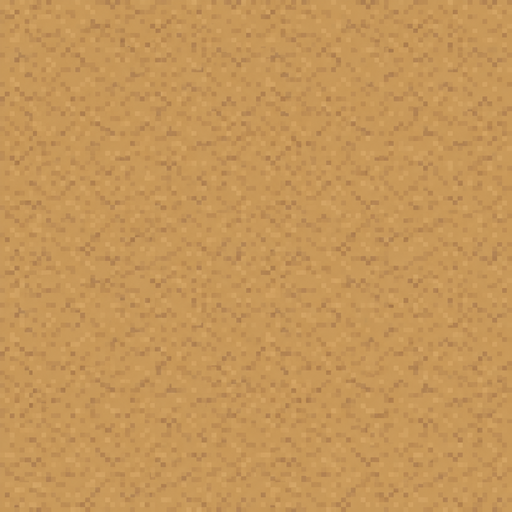
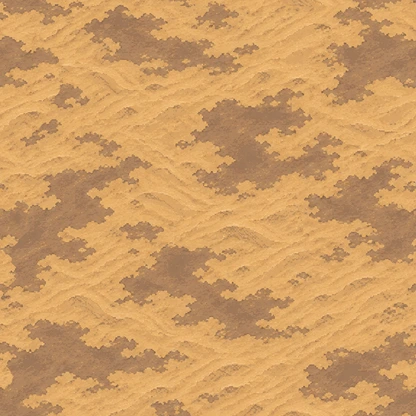
흑풍채 목책에 정문을 내고, 담 밖 가장자리엔 출구를 내지 않는다 / 쿼터뷰 그림 두 번째 묶음
길 막힘
- 흑풍채: 아래 목책이 '강호로' 출구를 통째로 막고 있었다. 가운데를 터서 깃발 단 정문을 낸다
- 마당 길은 목책 안과 두 문 길에만 깔고, 담 밖은 맨땅으로 둔다
- 가장자리 출구는 걸어서 닿는 큰 땅과 이어진 곳에만 낸다(담 뒤에 출구를 만들지 않는다)
- 넓힌 지도에서 줄지어 놓은 담과 목책 사이에 틈이 생기던 것을 메운다
- 넓힌 지도에서 어긋나던 날것 충돌 상자(청하진 나루, 청풍골, 세가 거리)를 맞춘다
- tools/reach_test.cjs: 모든 지도에서 출구와 문이 걸어서 닿는지 본다

쿼터뷰 그림
- 땅 텍스처 9장: 되풀이 길이를 찾아 가장 덜 티 나는 금으로 꿰매 이음매를 없앤다. 들판은 풀밭 빛깔을 돌려 만든다
- 초가, 긴 초가, 기와집, 주막, 대장간, 약방, 잡화점, 헛간, 정자, 성황당, 나루, 나루 집
- 청하진 나루를 나루 그림으로, 길가 주막을 주막 그림으로
- 방 바닥은 새 마루 그림(이미 비스듬)을 그대로 깐다

Claude-Session: https://claude.ai/code/session_01UsE88WbmcPGyB1TXiMVMP7

diff --git a/js/maps.js b/js/maps.js
@@ -2,7 +2,7 @@
 import { G, TS, rint, pick, IMG } from './core.js';
 import { FURN, HOUSES } from './items.js';
 import { STAMPS, drawStamp, paintGround, paintRoom, curbs, mottle } from './tiles.js';
-import { meta, corners, hitsBox, inside } from './iso.js';
+import { meta, corners, hitsBox, inside, drawIso } from './iso.js';
 import { buildIsoRoom } from './isoroom.js';
 
 // 쿼터뷰 미리보기에서는 바깥 지도를 k배 넓게 편다. 쿼터뷰 집이 크기 때문이다
@@ -24,12 +24,13 @@ class MapDef {
   put(name, tx, ty, o = {}) {
     const s = STAMPS[name], px = tx * this.k * TS + (o.dx || 0), py = ty * this.k * TS + (o.dy || 0);
     if (!s) { console.warn('소품 없음', name); return this; }
-    this.stamps.push({ name, x: px, y: py, base: py + s[4] - (o.lift || 0), flat: o.flat });
+    this.stamps.push({ name, x: px, y: py, base: py + s[4] - (o.lift || 0), flat: o.flat, ...(o.isoAs ? { isoAs: o.isoAs } : {}) });
     if (s.length > 5 && !o.nosolid) this.solids.push({ x: px + s[5], y: py + s[6], w: s[7], h: s[8] });
     return this;
   }
-  row(name, tx, ty, n, step = 1, o = {}) { for (let i = 0; i < n; i++) this.put(name, tx + i * step, ty, o); return this; }
-  col(name, tx, ty, n, step = 1, o = {}) { for (let i = 0; i < n; i++) this.put(name, tx, ty + i * step, o); return this; }
+  // 줄지어 놓기. 넓힌 지도에서 한 칸짜리를 촘촘히 잇던 줄(담, 목책)은 조각을 더 넣어 틈이 생기지 않게 한다
+  row(name, tx, ty, n, step = 1, o = {}) { const k = step === 1 ? this.k : 1, N = Math.ceil(n * k - (k - 1)); for (let i = 0; i < N; i++) this.put(name, tx + i * step / k, ty, o); return this; }
+  col(name, tx, ty, n, step = 1, o = {}) { const k = step === 1 ? this.k : 1, N = Math.ceil(n * k - (k - 1)); for (let i = 0; i < N; i++) this.put(name, tx, ty + i * step / k, o); return this; }
   solid(tx, ty, w, h) { const k = this.k; this.solids.push({ x: tx * k * TS, y: ty * k * TS, w: w * TS, h: h * TS }); return this; }
   // 건물 입구: 스탬프 아래쪽 가운데에 포탈을 만든다
   house(name, tx, ty, to, ex, ey, dir = 1, o = {}) {
@@ -44,6 +45,7 @@ class MapDef {
   paveDiamond(cx, cy, hw, kind = 'stone') { const k = this.k; cx *= k; cy *= k; hw *= k; (this.pave = this.pave || []).push({ kind, poly: [[cx, cy - hw / 2], [cx + hw, cy], [cx, cy + hw / 2], [cx - hw, cy]].map(([a, b]) => [a * TS, b * TS]) }); return this; }
   // 쿼터뷰 소품: (fx, fy)는 바닥 마름모의 앞 모서리 자리(칸). flip이면 좌우를 뒤집어 입구가 오른쪽 앞면에 온다
   iso(name, fx, fy, o = {}) { return this.isoAt(name, fx * this.k, fy * this.k, o); }
+  isoGround(name, X, Y, o = {}) { const q = meta(name, o.flip); if (!q) return this; (this.ground = this.ground || []).push({ name, x: Math.round(X - q.ax), y: Math.round(Y - q.ay), w: q.w, h: q.h, flip: !!o.flip, iso: corners(X, Y, q.fw, q.fh, q.ls, q.rs) }); return this; }
   isoAt(name, fx, fy, o = {}) {
     const q = meta(name, o.flip); if (!q) { console.warn('쿼터뷰 소품 없음', name); return this; }
     const X = fx * TS, Y = fy * TS, c = corners(X, Y, q.fw, q.fh, q.ls, q.rs); this.hasIso = true;
@@ -85,12 +87,13 @@ class MapDef {
       G.world.paintArea(x, 0, 0, this.w, this.h, this.g, Bm, this.w, this.h);
     } else paintGround(x, this.g, this.biome);
     if (this.pave) for (const p of this.pave) paintPave(x, p);
+    for (const s of this.ground || []) drawIso(x, s);
     for (const s of this.stamps) if (s.flat) drawStamp(x, s.name, s.x, s.y);
     this.canvas = c; this.objs = this.stamps.filter(s => !s.flat);
     if (this.room && isoMode() && this.id !== 'myhouse') { // 쿼터뷰 미리보기: 바닥만 칠해 눕히고 뒷벽 두 면을 세운다
       const f = document.createElement('canvas'); f.width = c.width; f.height = c.height; const fx = f.getContext('2d'); fx.imageSmoothingEnabled = false;
-      paintRoom(fx, this.w, this.h, this.roomStyle || 0, { carpet: this.carpet, floorOnly: true }); for (const s of this.stamps) if (s.flat) drawStamp(fx, s.name, s.x, s.y);
-      buildIsoRoom(this, f);
+      const flat = !this.roomStyle && IMG['ground/wood']; paintRoom(fx, this.w, this.h, this.roomStyle || 0, { carpet: this.carpet, floorOnly: true, noFloor: flat }); for (const s of this.stamps) if (s.flat) drawStamp(fx, s.name, s.x, s.y);
+      buildIsoRoom(this, f, flat ? IMG['ground/wood'] : null);
     }
     if (this.room) { this.solids.push({ x: 0, y: 0, w: this.w * TS, h: TS + 4 }, { x: 0, y: 0, w: 10, h: this.h * TS }, { x: this.w * TS - 10, y: 0, w: 10, h: this.h * TS }, { x: 0, y: this.h * TS - 10, w: this.w * TS, h: 10 }); }
     return this;
@@ -155,13 +158,20 @@ function isoDress(m) {
 }
 // 문 자리 D가 문 난 면 가운데(그림에 문 자리가 적혀 있으면 그 자리)에 오게 앞 모서리를 잡는다. 문은 왼쪽 앞면, 뒤집으면 오른쪽 앞면에 있다
 const doorF = (q, flip, D) => { const t = q.door ?? .5; return flip ? [D[0] - q.fh * t * 16, D[1] + q.fh * t * 16 * (q.rs ?? .5)] : [D[0] + q.fw * t * 16, D[1] + q.fw * t * 16 * (q.ls ?? .5)]; };
+function isoDock(m, x, y, w, h) {
+  const k = m.k, q = meta('dock'); for (let Y = Math.floor(y * k); Y < Math.ceil((y + h) * k); Y++) for (let X = Math.floor(x * k); X < Math.ceil((x + w) * k); X++) if (m.g[Y]?.[X] === 4) m.g[Y][X] = Y < (y + 1) * k ? 1 : 2;
+  const Kx = (x + w / 2) * k * TS, Ky = (y + 1) * k * TS - 6, ls = q.ls ?? .5, rs = q.rs ?? .5, F = [Kx + 16 * (q.fw - q.fh), Ky + 16 * (q.fw * ls + q.fh * rs)];
+  m.isoGround('dock', F[0], F[1]); const c = m.ground[m.ground.length - 1].iso;
+  for (let Y = Math.floor(c.K[1] / TS) - 1; Y <= Math.ceil(c.F[1] / TS); Y++) for (let X = Math.floor(c.L[0] / TS); X <= Math.ceil(c.R[0] / TS); X++) if (m.g[Y]?.[X] === 2 && inside(c, X * TS + 8, Y * TS + 8, -3)) m.g[Y][X] = 4;
+  m.dockDeck = true;
+}
 export function isoRetrofit(m, o = {}) {
   if (m._isoDone || m.room || (m.live && !o.live)) return; m._isoDone = true; const cxm = m.w * TS / 2, placed = [], leftOf = o.leftOf || (x => x < cxm);
   const houses = m.stamps.filter(st => ISO_OF[st.name] && STAMPS[st.name]).map(st => { const s = STAMPS[st.name], w = s[3], h = s[4], dy = st.y + h; return { st, door: m.portals.find(q => q.door && q.x < st.x + w && q.x + q.w > st.x && Math.abs(q.y + q.h / 2 - dy) < 20) }; });
   const rank = h => !h.door ? 0 : /^h_/.test(h.door.to) ? 1 : 2; houses.sort((a, b) => rank(b) - rank(a)); // 이야기에 쓰는 문, 저절로 단 문, 문 없는 집 차례로 자리를 잡는다
   for (let { st, door } of houses) {
     const s = STAMPS[st.name], w = s[3], h = s[4], dx = st.x + w / 2, dy = st.y + h;
-    let first = (door && ISO_ROOM[String(door.to).replace(/^r_\w+?_/, '')]) || (door && /^r_\w+_hall$/.test(door.to) ? 'hall_dao' : null) || ISO_OF[st.name];
+    let first = st.isoAs && meta(st.isoAs) ? st.isoAs : (door && ISO_ROOM[String(door.to).replace(/^r_\w+?_/, '')]) || (door && /^r_\w+_hall$/.test(door.to) ? 'hall_dao' : null) || ISO_OF[st.name];
     if (first === 'inn' && /^c_/.test(m.id) && meta('inn_city')) first = 'inn_city';  // 큰 고을 객잔은 말끔한 쪽
     // 문이 앞면 가운데에 오게 앞 모서리를 잡는다. 이웃과 겹치면 반대로 돌리거나 작은 집으로 바꾸고, 문 없는 집은 빼 버린다
     let pick = null; const D = door ? [door.x + door.w / 2, door.y + door.h / 2] : [dx, dy];
@@ -221,7 +231,7 @@ export function buildMaps() {
   m.put('plum', 2, 22).put('plum', 40, 8).put('plum_g', 18, 22).put('plum', 28, 3).put('plum_o', 12, 3).put('tree_round', 34, 6).put('tree_round', 5, 6);
   m.put('jar', 18, 12).put('pot', 26, 12).put('pot', 27, 12).put('signpost', 24, 16).put('signpost', 41, 13);
   m.fill(21, 28, 4, 4, 4);
-  m.solids.push({ x: 21 * TS - 4, y: 29 * TS, w: 4, h: 3 * TS }, { x: 25 * TS, y: 29 * TS, w: 4, h: 3 * TS }, { x: 21 * TS, y: 32 * TS, w: 4 * TS, h: 8 });
+  { const K = m.k * TS; if (isoMode() && meta('dock')) isoDock(m, 21, 28, 4, 4); else m.solids.push({ x: 21 * K - 4, y: 29 * K, w: 4, h: 3 * K }, { x: 25 * K, y: 29 * K, w: 4, h: 3 * K }, { x: 21 * K, y: 32 * K, w: 4 * K, h: 8 }); }  // 쿼터뷰에선 나루 그림으로 바꾼다
   m.border(['grove_green', 'tree_round', 'tree_big', 'tree_pine'], [[21, 0, 4, 2], [44, 14, 3, 4], [0, 27, 2, 8], [44, 27, 2, 8], [0, 33, 46, 2], [0, 13, 3, 5]], 3);
   m.put('plum', 8, 25).put('plum_o', 34, 24).put('tree_round', 38, 25).put('stump', 13, 25).put('boulder', 29, 26).put('jar', 19, 25).put('pot', 26, 25).put('tree_big', 2, 12).put('plum_g', 36, 13).put('hut_o', 40, 21);
   m.scatter(['flower1', 'flower2', 'flower3', 'bush1', 'bush3', 'fern1'], 40, 3);
@@ -276,11 +286,11 @@ export function buildMaps() {
   m.exit(0, 11, 1, 4, 'cheongha', 43.5, 15.5, 2).exit(39, 4, 1, 4, 'fort', 1, 13, 3, { when: 'fort_open', lock: '산채 입구다. 준비가 끝나면 다시 오자.' }).exit(39, 17, 1, 4, 'cloudmt', 22, 36, 1, { when: 'cloud_open', lock: '이 길 너머는 창운산이다. 지금은 갈 이유가 없다.' });
   // 흑풍채
   m = M('fort', 36, 26, { name: '흑풍채', bgm: 'dungeon', biome: 'dusk', arena: 'fort' });
-  m.fill(0, 0, 36, 26, 1);
-  m.row('wood_h', 2, 2, 33).col('wood_h', 1, 3, 8).col('wood_h', 34, 3, 20).row('wood_h', 2, 23, 33).col('wood_h', 1, 15, 9);
+  m.fill(1, 2, 34, 22, 1).fill(0, 11, 2, 4, 1).fill(16, 23, 4, 3, 1);  // 목책 안 마당, 서쪽 샛문 길, 남쪽 정문 길. 목책 밖은 맨땅
+  m.row('wood_h', 2, 2, 33).col('wood_h', 1, 3, 8).col('wood_h', 34, 3, 20).row('wood_h', 2, 23, 14).row('wood_h', 20, 23, 15).col('wood_h', 1, 15, 9);  // 아래 목책 가운데는 강호로 나가는 문
   m.put('wood_b', 8, 4).put('wood_o', 16, 4).put('hut_b', 26, 4).put('lodge', 15, 14).put('straw', 6, 15).put('mud', 26, 16);
   for (const [x, y] of [[13, 9], [22, 9], [5, 12], [30, 12], [10, 20], [24, 21]]) m.put('jar', x, y);
-  m.flag('heukpung', 14.6, 14.75, true).flag('heukpung', 20.4, 14.75);
+  m.flag('heukpung', 14.6, 14.75, true).flag('heukpung', 20.4, 14.75).flag('heukpung', 15.2, 23.9, true).flag('heukpung', 20.2, 23.9);  // 아래 문 양옆에도 산채 깃발
   m.exit(0, 12, 1, 3, 'pass', 37.5, 5.5, 2);
   // 창운산
   m = M('cloudmt', 46, 38, { name: '창운산', bgm: 'temple', biome: 'deep', arena: 'court' });
@@ -324,7 +334,7 @@ export function buildMaps() {
   // 청풍골: 사냥과 낚시, 벌목
   m = M('valley', 40, 30, { name: '청풍골', bgm: 'peaceful', biome: 'deep', arena: 'forest', ambient: 'leaf' });
   m.water(19, 0, 2, 30).fill(19, 13, 2, 3, 4).road(21, 14, 39, 14, 2).road(4, 14, 18, 14, 2);
-  m.solids.push({ x: 0, y: -8, w: 40 * TS, h: 8 });
+  m.solids.push({ x: 0, y: -8, w: 40 * m.k * TS, h: 8 });
   m.border(['grove_pine', 'tree_big', 'grove_green', 'tree_pine'], [[38, 13, 3, 5], [0, 13, 4, 4]], 3);
   for (const [nm, x, y] of [['tree_pine', 9, 5], ['tree_round', 14, 7], ['tree_big', 26, 4], ['tree_pine', 32, 11], ['plum_g', 14, 19], ['tree_round', 7, 22], ['tree_pine', 25, 24], ['tree_big', 34, 26], ['boulder', 23, 10], ['boulder', 15, 25], ['plum', 30, 17], ['tree_round', 5, 9]]) m.put(nm, x, y);
   m.scatter(['fern1', 'fern2', 'bush2', 'bush4', 'flower3'], 34, 41);
@@ -367,7 +377,7 @@ export function buildMaps() {
   const nine = [['house_red', 4, 5, '소림사', 'tree_big', 'shaolin'], ['hut_b', 12, 5, '무당파', 'tree_pine', 'wudang'], ['hut_o', 20, 5, '화산파', 'plum', 'hwasan'], ['hut_o2', 28, 5, '종남파', 'tree_pine', 'jongnam'], ['shop_green', 36, 5, '아미파', 'plum_w', 'emei'],
     ['wood_b', 4, 15, '곤륜파', 'tree_snow', 'gonryun'], ['clay', 12.5, 15, '공동파', 'boulder', 'gongdong'], ['wood_o', 20.5, 15, '점창파', 'tree_round', 'jeomchang'], ['hut_b', 28, 15, '청성파', 'bamboo', 'cheongseong'], ['straw', 36.5, 15.8, '개방', 'stump', 'gaebang']];
   for (const [st, x, y, nm, tr, fid] of nine) { m.put(st, x, y, { nosolid: false }).flag(fid, x + STAMPS[st][3] / TS + .3, y + STAMPS[st][4] / TS + .15).label(x + 2, y - .5, nm); m.put(tr, x - 2.4, y - .4 + (tr === 'plum' || tr === 'plum_w' ? -1 : 0)); }
-  m.solids.push({ x: 0, y: 0, w: 44 * TS, h: 3 * TS }, { x: 0, y: 23 * TS, w: 44 * TS, h: 2 * TS });
+  m.solids.push({ x: 0, y: 0, w: 44 * m.k * TS, h: 3 * m.k * TS }, { x: 0, y: 23 * m.k * TS, w: 44 * m.k * TS, h: 2 * m.k * TS });
   m.border(['grove_green', 'tree_big', 'grove_pine'], [[0, 8, 2, 5]], 3);
   m.scatter(['flower1', 'flower3', 'fern1', 'bush2'], 22, 21);
   m.exit(0, 9, 1, 3, 'guhwa', 46.5, 19.5, 2);
@@ -379,7 +389,7 @@ export function buildMaps() {
   m.put('house_red', 26, 6).label(28, 5.5, '제갈세가').flag('jegal', 25.6, 9.6, true).flag('jegal', 30.4, 9.6).put('tree_pine', 22, 5).put('bamboo', 33, 5).put('bamboo', 34, 5.4).put('bamboo', 35, 5);
   m.put('shop_green', 8, 15).label(10, 14.5, '사천당가').flag('dang', 7.6, 18.6, true).flag('dang', 12.4, 18.6).put('tree_dead', 4, 15).row('jar', 3, 18, 2, 1);
   m.put('clay', 22, 15).label(24, 14.5, '하북팽가').flag('paeng', 21.6, 18.6, true).flag('paeng', 25.4, 18.6).put('stump', 17, 16).put('stump_o', 27, 16).put('pot', 19, 18);
-  m.solids.push({ x: 0, y: 23 * TS, w: 42 * TS, h: 2 * TS });
+  m.solids.push({ x: 0, y: 23 * m.k * TS, w: 42 * m.k * TS, h: 2 * m.k * TS });
   m.border(['grove_pine', 'tree_big', 'grove_green'], [[40, 9, 3, 5]], 3);
   m.scatter(['fern1', 'fern2', 'bush2', 'bush4'], 20, 31);
   m.exit(41, 10, 1, 3, 'guhwa', 3.5, 19.5, 3);

diff --git a/js/isometa.js b/js/isometa.js
@@ -1,16 +1,17 @@
 // tools/iso_in.py가 쓰는 쿼터뷰 소품 정보. 손으로 고치지 않는다
 export const ISOMETA = {
   "adobe": {"w": 123, "h": 83, "ax": 69, "ay": 81, "fw": 4, "fh": 3},
-  "barn": {"w": 107, "h": 75, "ax": 53, "ay": 73, "fw": 3, "fh": 3},
+  "barn": {"w": 105, "h": 92, "ax": 57, "ay": 92, "fw": 3.25, "fh": 2.75, "ls": 0.235, "rs": 0.321, "door": 0.68},
   "bell": {"w": 75, "h": 59, "ax": 37, "ay": 57, "fw": 2, "fh": 2},
   "books": {"w": 123, "h": 83, "ax": 69, "ay": 81, "fw": 4, "fh": 3},
   "cabin": {"w": 123, "h": 83, "ax": 69, "ay": 81, "fw": 4, "fh": 3},
   "city_gate": {"w": 123, "h": 83, "ax": 69, "ay": 81, "fw": 4, "fh": 3},
   "city_wall": {"w": 23, "h": 36, "ax": 17, "ay": 35, "fw": 1, "fh": 0.3},
-  "clinic": {"w": 123, "h": 83, "ax": 69, "ay": 81, "fw": 4, "fh": 3},
-  "dock": {"w": 134, "h": 73, "ax": 50, "ay": 71, "fw": 3, "fh": 5},
+  "clinic": {"w": 119, "h": 101, "ax": 67, "ay": 101, "fw": 4, "fh": 3, "ls": 0.256, "rs": 0.351, "door": 0.56},
+  "dock": {"w": 129, "h": 61, "ax": 44, "ay": 61, "fw": 2.75, "fh": 5.25, "ls": 0.375, "rs": 0.287},
   "dorm": {"w": 139, "h": 99, "ax": 101, "ay": 97, "fw": 6, "fh": 2},
   "fence": {"w": 18, "h": 17, "ax": 17, "ay": 17, "fw": 1, "fh": 0.3},
+  "ferry": {"w": 149, "h": 92, "ax": 65, "ay": 92, "fw": 3.75, "fh": 5.25, "ls": 0.413, "rs": 0.286, "door": 0.62},
   "gamble": {"w": 155, "h": 107, "ax": 85, "ay": 105, "fw": 5, "fh": 4},
   "gate_manor": {"w": 75, "h": 63, "ax": 53, "ay": 61, "fw": 3, "fh": 1},
   "gate_sect": {"w": 91, "h": 71, "ax": 69, "ay": 69, "fw": 4, "fh": 1},
@@ -27,26 +28,26 @@ export const ISOMETA = {
   "lodge": {"w": 123, "h": 83, "ax": 69, "ay": 81, "fw": 4, "fh": 3},
   "pagoda": {"w": 75, "h": 59, "ax": 37, "ay": 57, "fw": 2, "fh": 2},
   "palisade": {"w": 18, "h": 24, "ax": 17, "ay": 24, "fw": 1, "fh": 0.3},
-  "pavilion": {"w": 75, "h": 59, "ax": 37, "ay": 57, "fw": 2, "fh": 2},
+  "pavilion": {"w": 77, "h": 85, "ax": 38, "ay": 85, "fw": 2, "fh": 2, "ls": 0.383, "rs": 0.377},
   "platform": {"w": 166, "h": 73, "ax": 82, "ay": 71, "fw": 5, "fh": 5},
   "restaurant": {"w": 171, "h": 115, "ax": 85, "ay": 113, "fw": 5, "fh": 5},
   "rich": {"w": 155, "h": 107, "ax": 85, "ay": 105, "fw": 5, "fh": 4},
   "ruin": {"w": 139, "h": 91, "ax": 69, "ay": 89, "fw": 4, "fh": 4},
   "shack": {"w": 91, "h": 67, "ax": 53, "ay": 65, "fw": 3, "fh": 2},
   "ship": {"w": 171, "h": 115, "ax": 53, "ay": 113, "fw": 3, "fh": 7},
-  "shrine": {"w": 75, "h": 59, "ax": 37, "ay": 57, "fw": 2, "fh": 2},
+  "shrine": {"w": 77, "h": 73, "ax": 39, "ay": 73, "fw": 2.25, "fh": 1.75, "ls": 0.229, "rs": 0.442, "door": 0.45},
   "silk": {"w": 123, "h": 83, "ax": 69, "ay": 81, "fw": 4, "fh": 3},
-  "smithy": {"w": 123, "h": 83, "ax": 69, "ay": 81, "fw": 4, "fh": 3},
+  "smithy": {"w": 130, "h": 105, "ax": 84, "ay": 105, "fw": 4.75, "fh": 2.25, "ls": 0.196, "rs": 0.408},
   "stairs": {"w": 86, "h": 49, "ax": 34, "ay": 47, "fw": 2, "fh": 3},
   "stilt": {"w": 123, "h": 83, "ax": 69, "ay": 81, "fw": 4, "fh": 3},
-  "store": {"w": 123, "h": 83, "ax": 69, "ay": 81, "fw": 4, "fh": 3},
-  "tavern": {"w": 123, "h": 83, "ax": 69, "ay": 81, "fw": 4, "fh": 3},
+  "store": {"w": 123, "h": 110, "ax": 77, "ay": 110, "fw": 4.5, "fh": 2.5, "ls": 0.214, "door": 0.85},
+  "tavern": {"w": 118, "h": 97, "ax": 57, "ay": 97, "fw": 3.5, "fh": 3.5, "ls": 0.234, "rs": 0.312, "door": 0.59},
   "teahouse": {"w": 155, "h": 107, "ax": 85, "ay": 105, "fw": 5, "fh": 4},
   "temple_town": {"w": 139, "h": 91, "ax": 69, "ay": 89, "fw": 4, "fh": 4},
   "tent": {"w": 107, "h": 75, "ax": 53, "ay": 73, "fw": 3, "fh": 3},
-  "thatch": {"w": 123, "h": 83, "ax": 69, "ay": 81, "fw": 4, "fh": 3},
-  "thatch_long": {"w": 155, "h": 107, "ax": 101, "ay": 105, "fw": 6, "fh": 3},
-  "tile_house": {"w": 123, "h": 83, "ax": 69, "ay": 81, "fw": 4, "fh": 3},
+  "thatch": {"w": 125, "h": 94, "ax": 69, "ay": 94, "fw": 4, "fh": 3, "ls": 0.224, "rs": 0.33, "door": 0.56},
+  "thatch_long": {"w": 157, "h": 102, "ax": 108, "ay": 102, "fw": 6.5, "fh": 2.5, "ls": 0.249, "rs": 0.432, "door": 0.27},
+  "tile_house": {"w": 124, "h": 96, "ax": 73, "ay": 96, "fw": 4.25, "fh": 2.75, "ls": 0.233, "rs": 0.43, "door": 0.52},
   "tree_round": {"w": 68, "h": 65, "ax": 32, "ay": 65, "fw": 0.75, "fh": 0.75},
   "wall_stone": {"w": 23, "h": 21, "ax": 17, "ay": 20, "fw": 1, "fh": 0.3},
   "wall_tile": {"w": 25, "h": 32, "ax": 18, "ay": 31, "fw": 1, "fh": 0.3},

diff --git a/js/world.js b/js/world.js
@@ -81,7 +81,7 @@ export function buildWorld() {
   for (let y = 0; y < WH; y++) for (let x = 0; x < WW; x++) { const c = T[y * WW + x]; g[y][x] = c === SEA || c === RIVER ? 2 : c === ROAD ? 1 : c === BRIDGE ? 4 : 0; if (c === INN) STOPS.push({ x, y }); }
   // 길가 두 칸은 비워 둔다
   for (let y = 0; y < WH; y++) for (let x = 0; x < WW; x++) { const c = T[y * WW + x]; if (c === ROAD || c === BRIDGE) reserve(x - 2, y - 2, x + 2, y + 2); }
-  for (const t of STOPS) { reserve(t.x - 5, t.y - 6, t.x + 5, t.y + 3); m.put('hut_o', t.x - 2, t.y - 4); m.put('banner4', t.x + 2, t.y - 2); m.put('jar', t.x - 3.2, t.y - 1.6); m.put('log', t.x + 3.3, t.y - .6); m.label(t.x, t.y - 5, '주막'); }
+  for (const t of STOPS) { reserve(t.x - 5, t.y - 6, t.x + 5, t.y + 3); m.put('hut_o', t.x - 2, t.y - 4, { isoAs: 'tavern' }); m.put('banner4', t.x + 2, t.y - 2); m.put('jar', t.x - 3.2, t.y - 1.6); m.put('log', t.x + 3.3, t.y - .6); m.label(t.x, t.y - 5, '주막'); }
   for (const l of LOCS) compound(l);
   nature();
   if (isoMode()) { const C = LOCS.map(l => [Math.round(l.px[0] * K) * TS, Math.round(l.px[1] * K) * TS]); isoRetrofit(m, { live: true, leftOf: x => { let b = C[0]; for (const c of C) if (Math.abs(c[0] - x) < Math.abs(b[0] - x)) b = c; return x < b[0]; } }); }
@@ -404,7 +404,11 @@ function linkEdges(mp) {
   if (l) { const [wx, wy] = entry(mp.id); dest = ['world', wx, wy, 0, { world: true, when: 'world_open', lock: '아직 먼 길을 나설 때가 아니다.' }]; }
   else if (back) dest = [back.to, back.tx, back.ty, back.dir, { when: back.when, lock: back.lock, world: back.world }];
   if (!dest) return;
-  const side = (n, f, put) => { let a = -1; for (let i = 0; i <= n; i++) { const ok = i < n && (([x, y]) => walk(mp.g[y]?.[x]) && !inP(x, y) && !mp.blocked(x * TS + 8, y * TS + 10))(f(i)); if (ok && a < 0) a = i; if (!ok && a >= 0) { put(a, i - a); a = -1; } } };
+  // 걸어서 닿는 가장 큰 땅(담 안 마을)과 이어진 가장자리에만 출구를 낸다. 담 밖 가장자리에 길이 깔려 있어도 거기엔 내지 않는다
+  // 맨 가장자리 줄은 빼고 본다(담 밖 가장자리를 빙 돌아 이어지는 것을 막는다). 가장자리 칸은 바로 안쪽 칸이 그 땅에 들면 출구가 된다
+  const W = mp.w, H = mp.h, free = (x, y) => x > 0 && y > 0 && x < W - 1 && y < H - 1 && !mp.blocked(x * TS + 8, y * TS + 10), lab = new Int32Array(W * H).fill(-1), sz = []; let main = -1;
+  for (let i = 0; i < W * H; i++) { if (lab[i] >= 0 || !free(i % W, Math.floor(i / W))) continue; const n = sz.length, Q = [i]; lab[i] = n; let c = 0; while (Q.length) { const k = Q.pop(), x = k % W, y = (k - x) / W; c++; for (const [X, Y] of [[x + 1, y], [x - 1, y], [x, y + 1], [x, y - 1]]) { if (X < 0 || Y < 0 || X >= W || Y >= H) continue; const j = Y * W + X; if (lab[j] < 0 && free(X, Y)) { lab[j] = n; Q.push(j); } } } sz.push(c); if (main < 0 || c > sz[main]) main = n; }
+  const side = (n, f, put) => { let a = -1; for (let i = 0; i <= n; i++) { const ok = i < n && (([x, y]) => walk(mp.g[y]?.[x]) && !inP(x, y) && !mp.blocked(x * TS + 8, y * TS + 10) && lab[Math.min(H - 2, Math.max(1, y)) * W + Math.min(W - 2, Math.max(1, x))] === main)(f(i)); if (ok && a < 0) a = i; if (!ok && a >= 0) { put(a, i - a); a = -1; } } };
   const ex = (x, y, w, h) => mp.portals.push({ x: x * TS, y: y * TS, w: w * TS, h: h * TS, to: dest[0], tx: dest[1], ty: dest[2], dir: dest[3], ...dest[4] }); // 칸 번호 그대로(넓힌 지도여도)
   side(mp.w, x => [x, mp.h - 1], (a, n) => ex(a, mp.h - 1, n, 1)); side(mp.w, x => [x, 0], (a, n) => ex(a, 0, n, 1));
   side(mp.h, y => [0, y], (a, n) => ex(0, a, 1, n)); side(mp.h, y => [mp.w - 1, y], (a, n) => ex(mp.w - 1, a, 1, n));

diff --git a/js/isoroom.js b/js/isoroom.js
@@ -22,7 +22,7 @@ export function toGrid(dx, dy) { return [dy + dx / 2, dy - dx / 2]; }
 // 칸 방향 → 화면 방향
 export function toScreen(dx, dy) { return [dx - dy, (dx + dy) / 2]; }
 
-export function buildIsoRoom(m, floor) {
+export function buildIsoRoom(m, floor, flatTex) {  // flatTex: 이미 비스듬히 그린 마루 그림. 있으면 화면에 그대로 깐다
   const W = m.w * TS, H = m.h * TS, x0 = 6, y0 = TS, x1 = W - 6, y1 = H - 6;
   const ox = y1 - x0 + M, oy = WH + M + 4 - (x0 + y0) / 2;
   m.isoRoom = { ox, oy, x0, y0, x1, y1 };
@@ -34,7 +34,8 @@ export function buildIsoRoom(m, floor) {
   // 앞쪽 바닥 두께: 방이 어둠 위에 떠 있는 판처럼 보이게
   const L = P(x0, y1), F = P(x1, y1), R = P(x1, y0), K = P(x0, y0);
   poly([L, F, R, [R[0], R[1] + LIP], [F[0], F[1] + LIP], [L[0], L[1] + LIP]], pal.lip);
-  // 바닥: 네모 방 바닥 그림을 그대로 눕힌다
+  if (flatTex) { c.save(); c.beginPath(); [K, R, F, L].forEach(([a, b], i) => i ? c.lineTo(a, b) : c.moveTo(a, b)); c.closePath(); c.clip(); const pt = c.createPattern(flatTex, 'repeat'); pt.setTransform(new DOMMatrix().scale(1 / (flatTex.hd || 1))); c.fillStyle = pt; c.fillRect(0, 0, cv.width, cv.height); c.restore(); }
+  // 바닥: 네모 방 바닥 그림을 그대로 눕힌다(새 마루면 깔개와 바닥 소품만)
   c.save(); c.setTransform(1, .5, -1, .5, ox, oy); c.beginPath(); c.rect(x0, y0, x1 - x0, y1 - y0); c.clip(); c.drawImage(floor, 0, 0);
   // 벽 밑 그늘
   let g = c.createLinearGradient(0, y0, 0, y0 + 22); g.addColorStop(0, 'rgba(0,0,0,.34)'); g.addColorStop(1, 'rgba(0,0,0,0)'); c.fillStyle = g; c.fillRect(x0, y0, x1 - x0, 22);

diff --git a/js/tiles.js b/js/tiles.js
@@ -128,8 +128,8 @@ export function curbs(c, g, o = {}) {
 // 방 안 바닥과 벽. doors: 아래 벽에서 문으로 트인 칸 [x0, x1). carpet: 붉은 깔개 [x, y, w, h]
 export function paintRoom(c, w, h, style = 0, opt = {}) {
   const f = style === 1 ? IMG['tiles/InteriorFloor'] : IMG['tiles/Water'], wall = IMG['tiles/WallSimple'];
-  c.fillStyle = '#000'; c.fillRect(0, 0, w * TS, h * TS);
-  for (let y = 0; y < h; y++) for (let x = 0; x < w; x++) {
+  if (!opt.noFloor) { c.fillStyle = '#000'; c.fillRect(0, 0, w * TS, h * TS); }
+  for (let y = 0; y < h && !opt.noFloor; y++) for (let x = 0; x < w; x++) {
     if (style === 1) c.drawImage(f, (11 + (x + y) % 3) * TS, 12 * TS, TS, TS, x * TS, y * TS, TS, TS);
     else if (IMG['ground/wood']) texAt(c, 'wood', x, y, x * TS, y * TS);
     else c.drawImage(f, 6 * TS, 13 * TS, TS, TS, x * TS, y * TS, TS, TS);

diff --git a/tools/iso_in.py b/tools/iso_in.py
@@ -249,13 +249,35 @@ def isogrid(path, cols, rows, key, C=64):  # 동물, 몬스터: 2열(왼아래, 
             out.alpha_composite(c, (col * C + (C - c.width) // 2, r * C + C - 2 - c.height))
     os.makedirs(os.path.join(ROOT, 'assets/hd', os.path.dirname(key)), exist_ok=True); out.save(os.path.join(ROOT, f'assets/hd/{key}_q.webp'), lossless=True); reg_key(key + '_q'); print(key + '_q', '키', H // 2)
 TEXN = {'forest': 'deep', 'dirt': 'plain'}
-def tex(path, name, N=512):  # 땅 텍스처: 가운데 정사각형을 잘라 줄이고, 반 칸 밀어 겹쳐 이음매를 지운다
+def tex(path, name, N=None, D=512 / 1100):  # D: 원본 한 점이 HD 몇 점이 되나. 텍스처마다 되풀이 길이가 달라도 결 크기를 같게  # 땅 텍스처: 이어 붙는 길이를 골라 자르고, 이음매 띠를 가장 덜 티 나는 금(최소 비용 이음매)으로 꿰매 타일로 만든다
     import numpy as np
-    name = TEXN.get(name, name); im = Image.open(path).convert('RGB'); m = min(im.size); im = im.crop(((im.width - m) // 2, (im.height - m) // 2, (im.width + m) // 2, (im.height + m) // 2)).resize((N, N), Image.LANCZOS)
-    A = np.array(im).astype(float); B = np.roll(np.roll(A, N // 2, 0), N // 2, 1); u = np.abs(np.arange(N) - (N - 1) / 2) / (N / 2)
-    w = np.clip((1 - np.maximum(u[:, None], u[None, :])) * 4, 0, 1)[..., None]  # 가장자리 1/4 폭에서만 섞는다
-    out = (A * w + B * (1 - w)).round().astype('uint8'); os.makedirs(os.path.join(ROOT, 'assets/hd/ground'), exist_ok=True)
-    Image.fromarray(out).save(os.path.join(ROOT, f'assets/hd/ground/{name}.webp'), quality=92); reg_key('ground/' + name); print('ground/' + name)
+    name = TEXN.get(name, name); im = Image.open(path).convert('RGB'); m = min(im.size); im = im.crop(((im.width - m) // 2, (im.height - m) // 2, (im.width + m) // 2, (im.height + m) // 2))
+    if m > 1400: im = im.resize((1400, 1400), Image.LANCZOS); m = 1400
+    A = np.array(im).astype(np.float32); ov = max(48, m // 9)
+    # 되풀이 길이: 가로세로로 S만큼 밀었을 때 가장 닮은 S (무늬가 반듯한 돌바닥, 마루에서 중요하다)
+    def diff(S): return np.abs(A[:, :m - S] - A[:, S:]).mean() + np.abs(A[:m - S] - A[S:]).mean()
+    S = min(range(int(m * .62), m - ov), key=diff)
+    def seam(cost):  # 위에서 아래로 가는 가장 싼 금. 각 줄에서 금의 열 번호
+        H, W = cost.shape; M = cost.copy(); back = np.zeros((H, W), int)
+        for i in range(1, H):
+            L = np.r_[np.inf, M[i - 1, :-1]]; R = np.r_[M[i - 1, 1:], np.inf]; st = np.stack([L, M[i - 1], R]); k = st.argmin(0); back[i] = k - 1; M[i] += st.min(0)
+        j = int(M[-1].argmin()); out = [0] * H
+        for i in range(H - 1, -1, -1): out[i] = j; j = min(W - 1, max(0, j + back[i, j]))
+        return out
+    def stitch(X):  # 가로로 이어 붙게: 오른쪽 끝 다음 띠(O)를 왼쪽 띠에 금을 따라 덮는다
+        T = X[:, :S].copy(); O = X[:, S:S + ov]; Lb = T[:, :ov]; cut = seam(np.abs(O - Lb).sum(2))
+        for i, j in enumerate(cut): T[i, :j] = O[i, :j]
+        return T
+    B = stitch(A); B = stitch(B.transpose(1, 0, 2)).transpose(1, 0, 2)[:S, :S]; N = N or max(256, round(S * m / 1254 * D / 32) * 32 if m < 1254 else round(S * D / 32) * 32)
+    big = Image.fromarray(np.tile(B, (3, 3, 1)).clip(0, 255).astype('uint8')).resize((N * 3, N * 3), Image.LANCZOS)  # 둘레까지 이어진 채로 줄인다
+    out = big.crop((N, N, 2 * N, 2 * N)); os.makedirs(os.path.join(ROOT, 'assets/hd/ground'), exist_ok=True)
+    out.save(os.path.join(ROOT, f'assets/hd/ground/{name}.webp'), quality=92); reg_key('ground/' + name); print('ground/' + name, '되풀이', S, '/', m, '→', N)
+def tint(src, name, dh=-.04, ks=.72, kv=.94):  # 이미 들어온 땅 텍스처의 빛깔만 돌려 새 땅을 만든다(들판 = 풀밭을 누렇게)
+    import numpy as np
+    im = Image.open(os.path.join(ROOT, f'assets/hd/ground/{src}.webp')).convert('HSV'); a = np.array(im).astype(np.float32)
+    g = (a[..., 0] > 35) & (a[..., 0] < 120)  # 초록 계열만 돌리고(흙빛은 그대로 두어 분홍이 되지 않게) 모두 조금 바랜다
+    a[..., 0] = np.where(g, a[..., 0] + dh * 255, a[..., 0]); a[..., 1] *= np.where(g, ks, .9); a[..., 2] *= kv
+    Image.fromarray(a.clip(0, 255).astype('uint8'), 'HSV').convert('RGB').save(os.path.join(ROOT, f'assets/hd/ground/{name}.webp'), quality=92); reg_key('ground/' + name); print('ground/' + name, '←', src)
 def arena(path, theme):
     im = Image.open(path).convert('RGB'); r = 768 / 480
     if im.width / im.height > r: nw = round(im.height * r); im = im.crop(((im.width - nw) // 2, 0, (im.width - nw) // 2 + nw, im.height))
@@ -297,6 +319,7 @@ if __name__ == '__main__':
     elif cmd == 'isogrid': isogrid(sys.argv[2], int(sys.argv[3]), int(sys.argv[4]), sys.argv[5])
     elif cmd == 'tex': tex(sys.argv[2], sys.argv[3])
     elif cmd == 'arena': arena(sys.argv[2], sys.argv[3])
+    elif cmd == 'tint': tint(sys.argv[2], sys.argv[3], *map(float, sys.argv[4:7]))
     elif cmd == 'qb': qb(sys.argv[2], sys.argv[3:])
     elif cmd == 'batch': batch(sys.argv[2])
     elif cmd == 'placeall':
